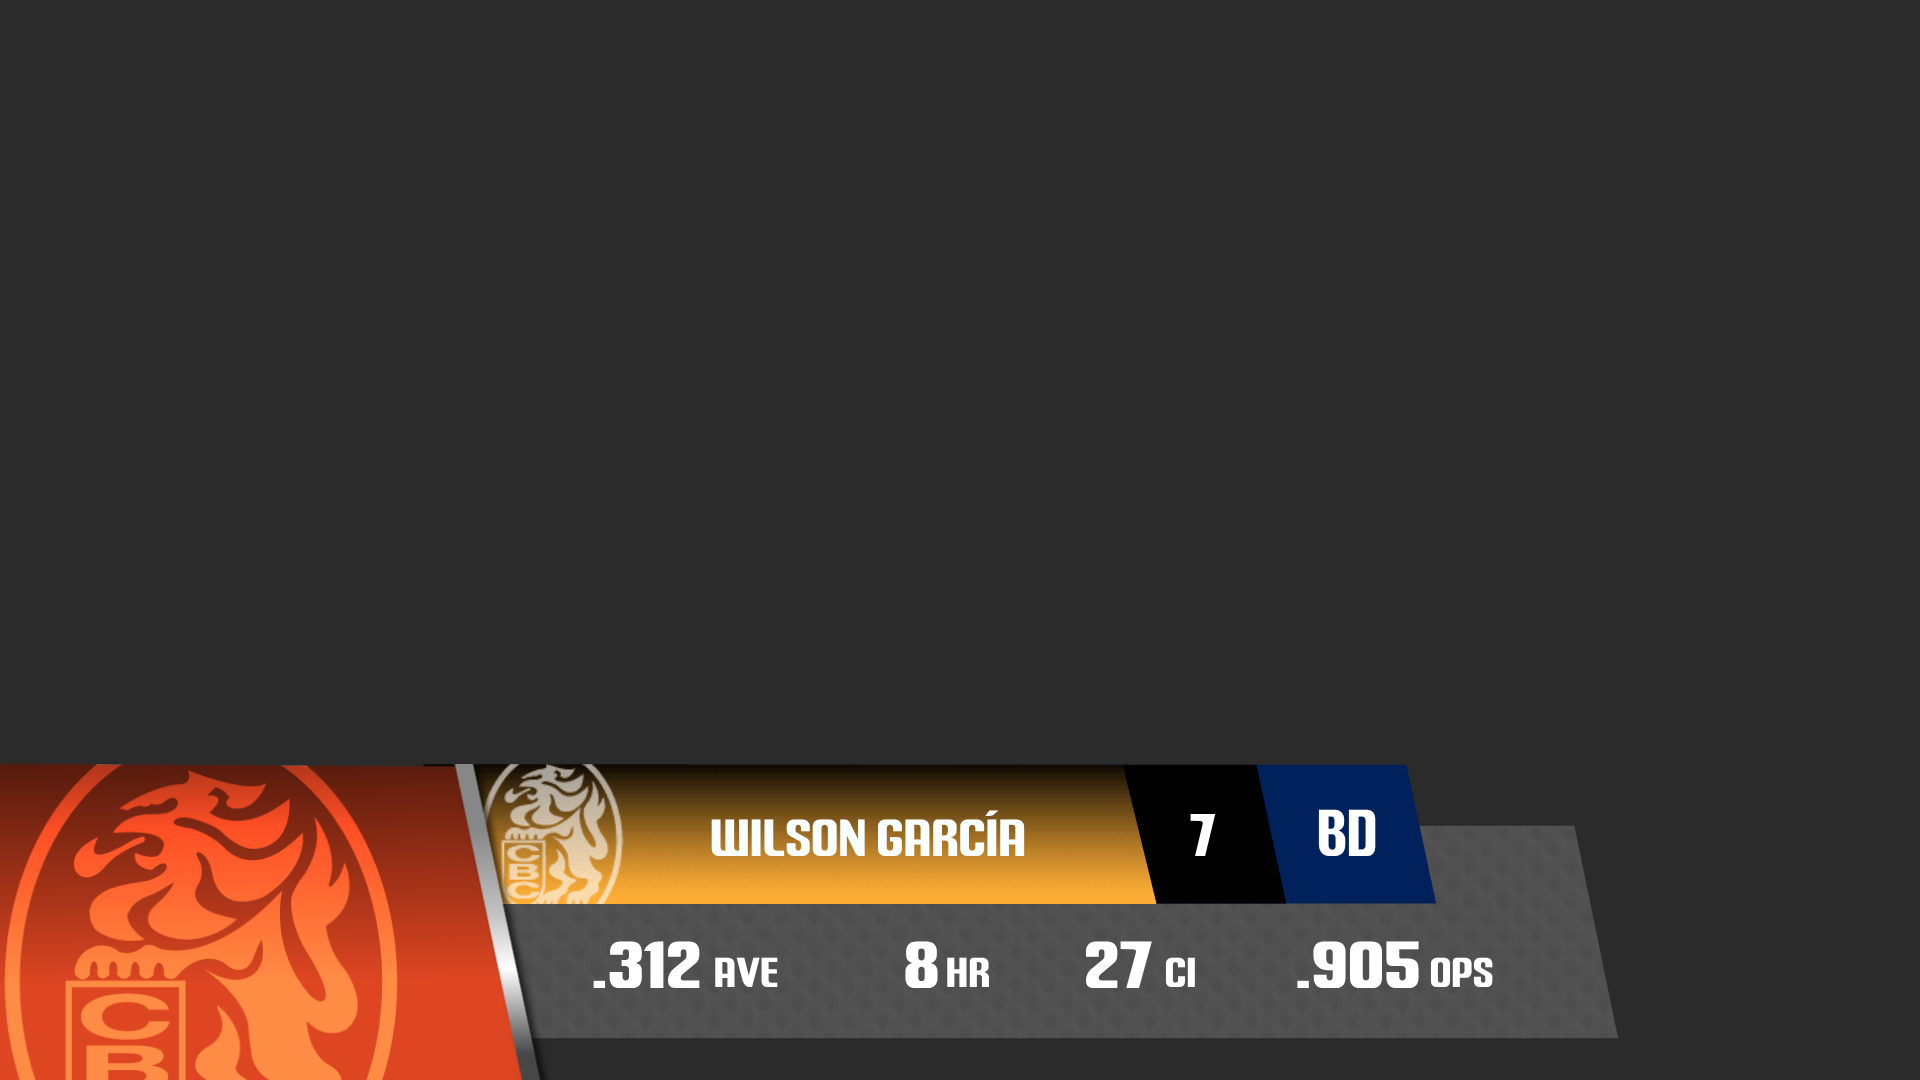
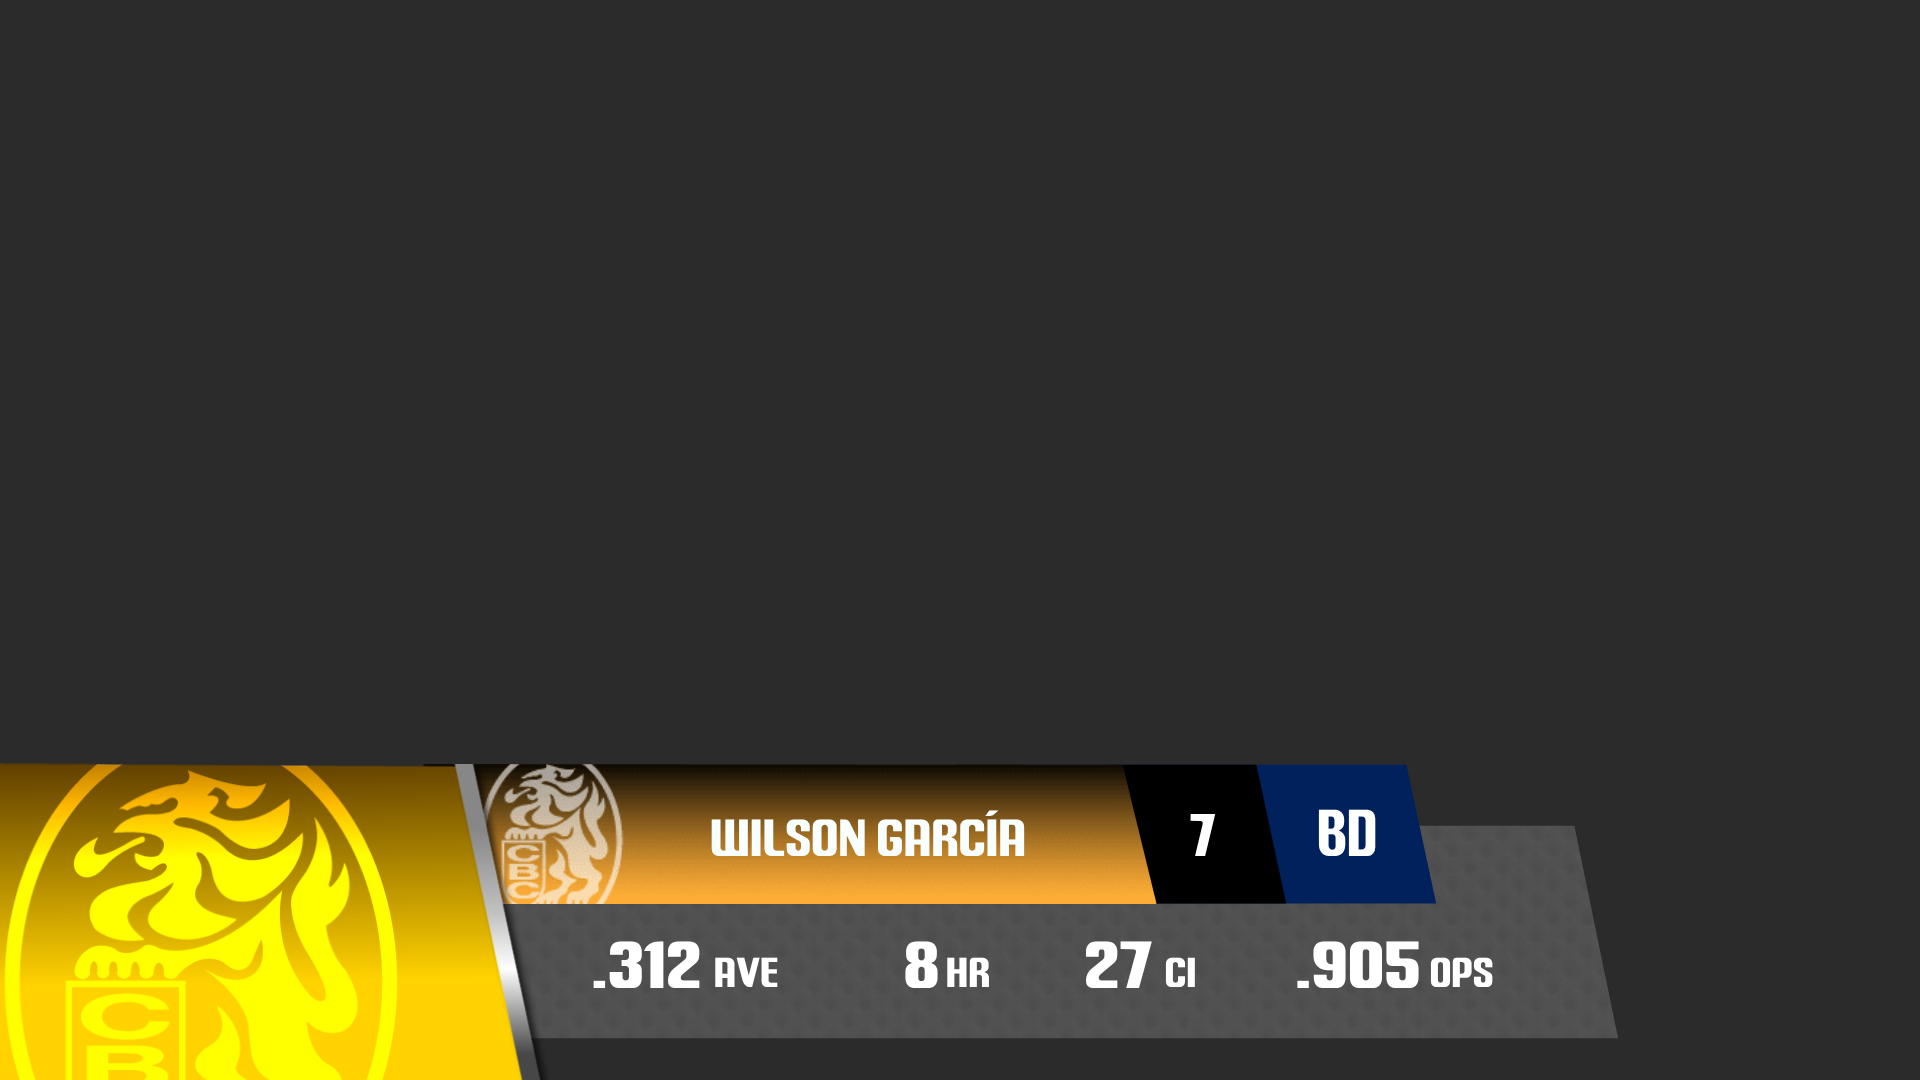
Bateador: los fondos, con el color de cada equipo de la ofensiva
El export traía el fondo de siete equipos con el mismo naranja (el de
Bravos) y sólo Tigres con el suyo. Van con el degradado de las puertas
de cada equipo en la ofensiva preparada, como las puertas de la
defensiva, con los stops dados vuelta (la puerta va de oscuro arriba a
claro abajo en el orden contrario al del fondo). Capturas regeneradas.

Claude-Session: https://claude.ai/code/session_01CcmzhVdTzAd5kfBXmwLEv5

Changed region(s): [[0.0, 0.7028, 0.2812, 1.0]]

diff --git a/herramientas/prep.js b/herramientas/prep.js
@@ -624,18 +624,36 @@ if (hay('LOWBAR BATEADOR')) {
     // ---- el equipo: cada clave prende su barra (la imagen del nombre, con el escudo de marca de
     // agua), el fondo de color de la izquierda y el escudo grande encima (en overlay, mateado). La
     // barra de Bravos llega sin el _1 de las otras.
+    // Los fondos llegan con el mismo naranja (el de Bravos) en siete equipos: sólo Tigres trae el
+    // suyo. Van con el color de cada equipo de la ofensiva, como las puertas de la defensiva (Leon,
+    // 2026-10-16): el degradado de sus puertas, tomado de la ofensiva preparada (si cambia allá, el
+    // bateador lo toma la próxima vez que se prepare). La puerta va de oscuro (arriba, en 0) a claro
+    // (abajo, en 1) y el fondo al revés, claro en 0 (abajo): los stops se dan vuelta.
+    const of = load(path.join(REPO, 'ofensiva/data.json'));
+    const degradado = l => l.shapes[0].it.find(s => s.ty === 'gf');
     for (const l of d.layers) {
         const barra = l.nm.match(/^\.BARRA_([A-Z]+)_BATEO(?:_1)?\.png$/);
-        const m = barra || l.nm.match(/^\.FONDO([A-Z]+)$/) || l.nm.match(/^\.([A-Z]+)LOGO$/);
+        const fondo = l.nm.match(/^\.FONDO([A-Z]+)$/);
+        const m = barra || fondo || l.nm.match(/^\.([A-Z]+)LOGO$/);
         if (!m) continue;
-        if (!SIGLAS[m[1]]) throw new Error(`${l.nm}: equipo desconocido`);
+        const sig = SIGLAS[m[1]];
+        if (!sig) throw new Error(`${l.nm}: equipo desconocido`);
         // Hasta que empieza a moverse (frame 11), la punta de la barra asomaba 5 px en el borde
         // izquierdo: en la entrada y al final de la salida. Aparece cuando se mueve.
         if (barra) {
             if (!l.ks.p.a) throw new Error(`${l.nm}: sin animación`);
             l.ip = l.ks.p.k[0].t;
         }
-        rename(d, l.nm, SIGLAS[m[1]] + '_opacidad');
+        if (fondo) {
+            const ref = of.layers.find(o => o.cl === sig + '_opacidad' && o.ty === 4);
+            if (!ref) throw new Error(`ofensiva: sin puerta de ${sig}`);
+            const g = degradado(ref).g, k = g.k.k, gf = degradado(l);
+            if (g.p !== 3 || k.length !== 12 || gf.g.p !== 3 || gf.g.k.a) throw new Error(`${l.nm}: degradado inesperado`);
+            const stops = [];
+            for (let i = 8; i >= 0; i -= 4) stops.push(+(1 - k[i]).toFixed(3), k[i + 1], k[i + 2], k[i + 3]);
+            gf.g.k.k = stops;
+        }
+        rename(d, l.nm, sig + '_opacidad');
     }
     for (const s of Object.values(SIGLAS)) {
         const n = d.layers.filter(l => l.nm === `.${s}_opacidad`).length;

diff --git a/CLAUDE.md b/CLAUDE.md
@@ -74,7 +74,7 @@ equipo y una textura de líneas encima. Para que las dos queden iguales (Leon, 2
 le pone a cada puerta, encima, la textura (`images/texturapuertas.png`, en *multiply*) y las ocho
 pantallas de color, hijas de la puerta, con su forma y su máscara. Los degradados y la textura salen
 de la ofensiva preparada (`ofensiva/data.json`): si cambian allá, la defensiva los toma la próxima
-vez que se prepare.
+vez que se prepare (y el bateador, los colores de sus fondos).
 El escudo de las compuertas va al 49 % del diseño (con fusión *color dodge*), pero ese 49 % no está
 en la capa sino en el CSS de su `<image>` (`g[id^="puerta"] > image`, por el `ln`
 `puerta<SIGLAS><izq|der>` de la capa): el UPDATE escribe su `opacity` en la capa y lo pisaría con
@@ -129,9 +129,10 @@ el fondo de color de la izquierda (forma con degradado) y el escudo grande encim
 *overlay*, mateada con su `MASK`). Por eso la clase se repite a propósito, como en la defensiva.
 Empiezan ocultas (CSS de `index.html`, como el bateador de Meridiano): el controlador manda `1` al
 que batea y `0` a los otros siete. Sin equipo no se ven la barra ni el fondo: el nombre queda sobre
-la textura gris y la placa negra del número, entera. ⚠ El export trae el fondo de siete equipos con
-el mismo naranja (el de Bravos): sólo Tigres tiene el suyo, un azul casi negro sobre el que su escudo
-casi no se ve (como en la ofensiva). Así quedó, igual al export: pendiente con el diseñador.
+la textura gris y la placa negra del número, entera. El export trae el fondo de siete equipos con
+el mismo naranja (el de Bravos) y sólo Tigres con el suyo: van con el color de cada equipo de la
+ofensiva, como las puertas de la defensiva (Leon, 2026-10-16). Sobre los de Tiburones y Tigres, casi
+negros, el escudo (en *overlay*) casi no se ve.
 
 Textos: en mayúsculas. El nombre, como en Meridiano (`ISAIAS TEJEDA`): al tamaño del diseño entran
 unas 17 letras (`AEVERSON ARTEAGA` entra; `ALEXANDER MONASTERIOS` baja de 55 a 42); más largos
@@ -268,6 +269,10 @@ el título del export): igual salvo 1 o 2 niveles de 255 en el escudo.
   hasta 8 px después de la del rótulo anterior (el primero, del borde de la barra gris, x 527); el
   `.000 ` pierde el espacio final. Los rótulos, cajas de 70. El alto de todas, el ascent del cuerpo
   más 2: con el del export (hasta 90) un texto que encogía mucho partía en dos líneas chicas.
+- **Fondos:** el degradado de cada equipo sale de las puertas de la ofensiva preparada
+  (`ofensiva/data.json`), con los stops dados vuelta (la puerta va de oscuro en 0, arriba, a claro
+  en 1; el fondo, claro en 0, abajo). Las posiciones del degradado (`s`, `e`) quedan las del export.
+  `prep.js` prepara la ofensiva antes que el bateador: si llegan los dos juntos, alcanza con una vez.
 - **Barras:** aparecen cuando empiezan a moverse (frame 11, su primer keyframe): antes, su punta
   asomaba quieta 5 px en el borde izquierdo, del frame 0 al 10 (y al final de la salida).
 - **Markers y timeline:** `START` (0–30) y `STOP` (90–120) del diseñador → `play`, `salida` y `stop`
@@ -275,10 +280,10 @@ el título del export): igual salvo 1 o 2 niveles de 255 en el escudo.
   capas que arrancan en el 0 pasan al 1: el frame 0 queda vacío.
 - **Imágenes:** las 17 del export van tal cual a `bateador/images/`.
 
-Comparado frame a frame contra el export (Bravos, con el texto del diseño): idéntico al píxel del 13
-al 87; del 0 al 10 sólo falta la punta de la barra. En el 11 y el 12, la sombra de la franja difiere
-hasta 18/255 en la esquina según el frame que el browser pintó antes: renderizados cada uno en una
-página recién cargada, son idénticos.
+Comparado frame a frame contra el export (Bravos, con el texto del diseño, antes de los colores de
+la ofensiva): idéntico al píxel del 13 al 87; del 0 al 10 sólo falta la punta de la barra. En el 11
+y el 12, la sombra de la franja difiere hasta 18/255 en la esquina según el frame que el browser
+pintó antes: renderizados cada uno en una página recién cargada, son idénticos.
 
 ### QA
 
